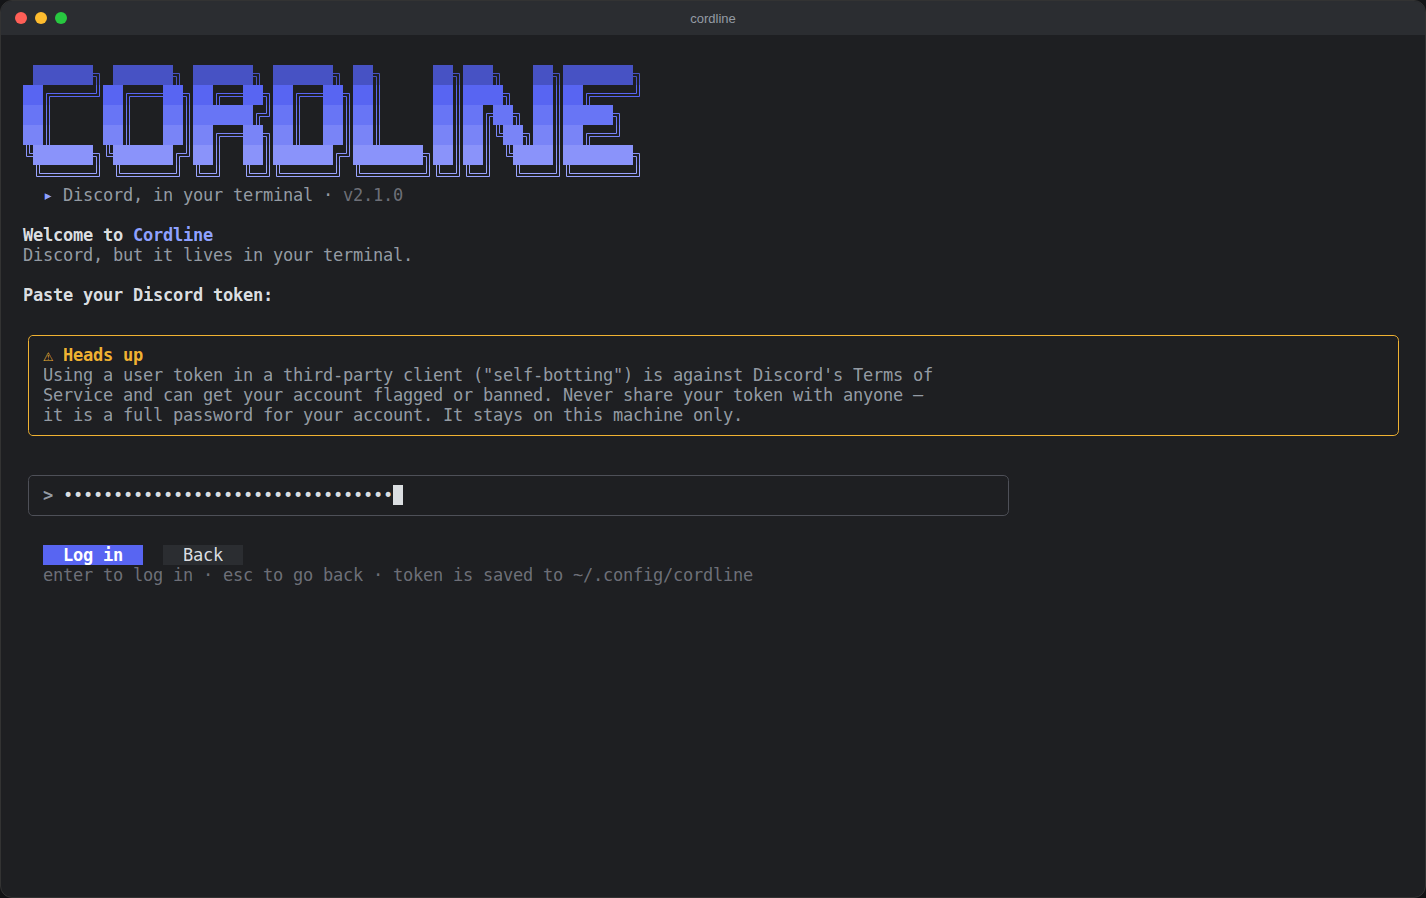
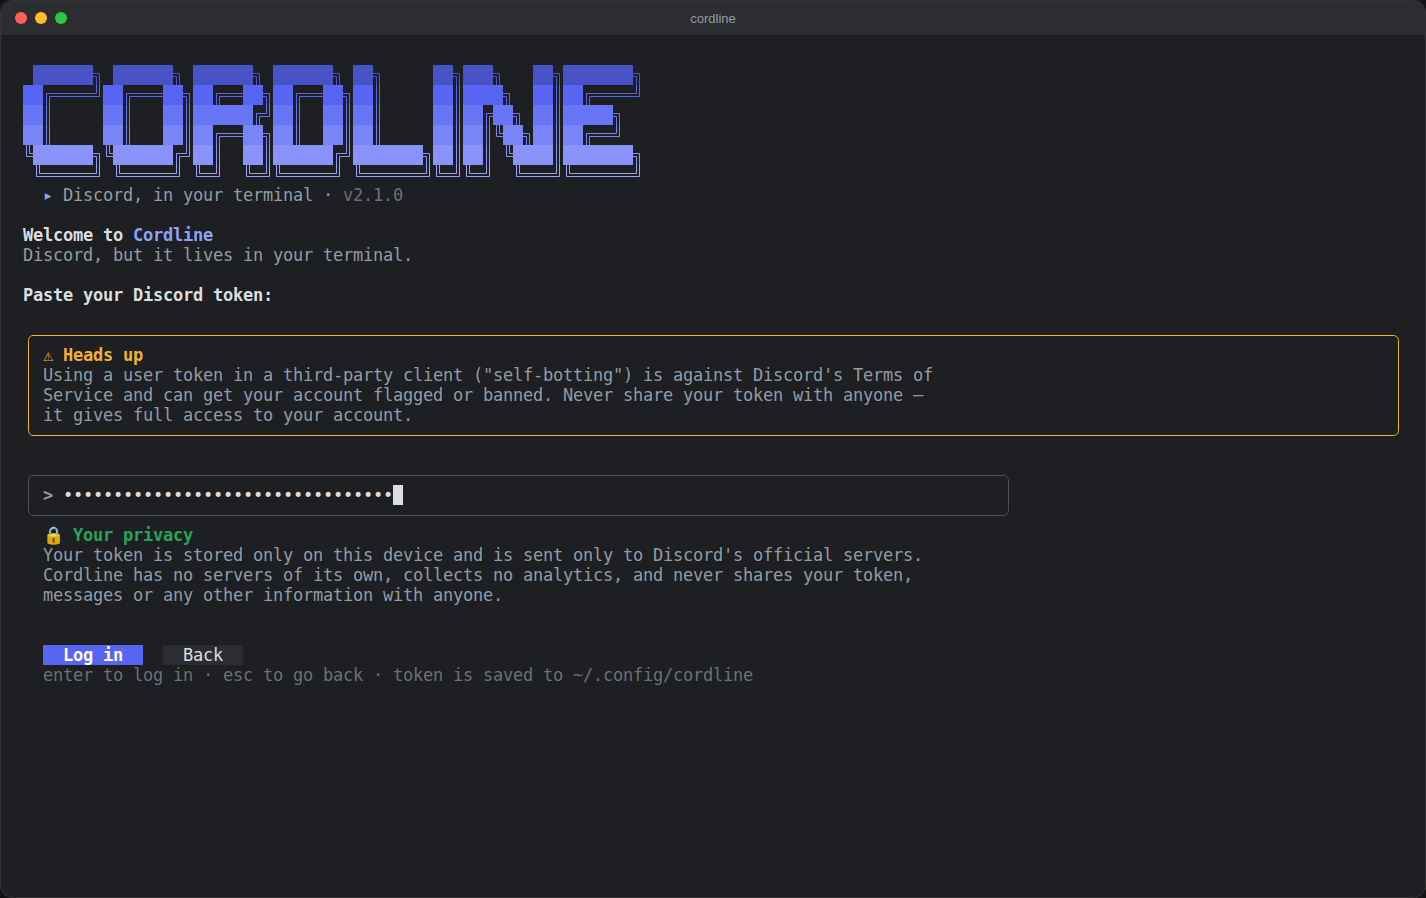
Add privacy statement (v2.1.1)
Adds PRIVACY.md, a Privacy & security section in the README, a privacy
notice on the login screen and in release notes.

diff --git a/src/ui/Login.js b/src/ui/Login.js
@@ -114,10 +114,18 @@ export function Login({onDone, initialError}) {
 								h(Text, {color: theme.yellow, bold: true}, '⚠ Heads up'),
 								h(Text, {color: theme.subtle}, 'Using a user token in a third-party client ("self-botting") is against Discord\'s Terms of'),
 								h(Text, {color: theme.subtle}, 'Service and can get your account flagged or banned. Never share your token with anyone —'),
-								h(Text, {color: theme.subtle}, 'it is a full password for your account. It stays on this machine only.'),
+								h(Text, {color: theme.subtle}, 'it gives full access to your account.'),
 							)
 						: h(Text, {color: theme.subtle}, 'discord.com/developers → your app → Bot → Reset Token. Enable the MESSAGE CONTENT intent.'),
 					h(Box, {marginTop: 1}, h(PromptInput, {value: token, cursor: token.length, placeholder: 'Token goes here…', columns: Math.min(columns, 100), masked: true})),
+					h(
+						Box,
+						{flexDirection: 'column', paddingX: 2, marginBottom: 1},
+						h(Text, {color: theme.green, bold: true}, '🔒 Your privacy'),
+						h(Text, {color: theme.subtle}, "Your token is stored only on this device and is sent only to Discord's official servers."),
+						h(Text, {color: theme.subtle}, 'Cordline has no servers of its own, collects no analytics, and never shares your token,'),
+						h(Text, {color: theme.subtle}, 'messages or any other information with anyone.'),
+					),
 					error ? h(Text, {color: theme.red}, `  ⎿  ${error}`) : null,
 					step === 'validating'
 						? h(Spinner, {label: 'Connecting to Discord…', startedAt})

diff --git a/src/discord.js b/src/discord.js
@@ -74,7 +74,7 @@ export class DiscordClient extends EventEmitter {
 					Authorization: this.token,
 					'Content-Type': 'application/json',
 					'User-Agent': this.isBot
-						? 'DiscordBot (https://github.com/EnSpecielPerson/Cordline, 2.1.0)'
+						? 'DiscordBot (https://github.com/EnSpecielPerson/Cordline, 2.1.1)'
 						: 'Mozilla/5.0 (X11; Linux x86_64) AppleWebKit/537.36 (KHTML, like Gecko) Chrome/130.0 Safari/537.36',
 				},
 				body: body === undefined ? undefined : JSON.stringify(body),

diff --git a/src/ui/components.js b/src/ui/components.js
@@ -5,7 +5,7 @@ import {Clickable} from './mouse.js';
 import {parseContent, displayName, formatTime, formatBytes, preview} from '../format.js';
 
 const h = React.createElement;
-export const VERSION = '2.1.0';
+export const VERSION = '2.1.1';
 
 // ---------- Logo + welcome banner ----------
 

diff --git a/PRIVACY.md b/PRIVACY.md
@@ -1,0 +1,51 @@
+# Privacy Statement
+
+_Last updated: October 1, 2026_
+
+Cordline is an open-source Discord client that runs entirely on your own device. This statement explains what information Cordline handles and how.
+
+## Summary
+
+Cordline does not collect, store remotely, sell or share your token, your messages or any other information. The only service it communicates with is Discord.
+
+## Information Cordline handles
+
+| Information | How it is used | Where it goes |
+|---|---|---|
+| Your Discord token (user or bot) | To sign in to your Discord account | Saved on your device; sent only to Discord's official servers |
+| Your servers, channels, direct messages and messages | Displayed in the app while you use it | Received from Discord and held in memory only; never written to disk or sent anywhere else |
+| Messages you send | Delivered to the channel you choose | Sent only to Discord |
+
+## Local storage
+
+- Your token is saved in `~/.config/cordline/config.json` (or under `$XDG_CONFIG_HOME/cordline` if that is set).
+- On macOS and Linux the file is created with permissions that allow only your user account to read it.
+- The token is stored in plain text, not encrypted. Anyone with access to your user account on this device could read it, so protect your device accordingly.
+- Messages and other account data are never saved to disk.
+
+## Network connections
+
+Cordline connects only to:
+
+- `https://discord.com/api`, Discord's official API, to load and send messages
+- `wss://gateway.discord.gg` (and the gateway URLs Discord provides during a session), Discord's official real-time messaging service
+
+Cordline does not contact any other servers. It contains no analytics, telemetry, crash reporting, advertising or tracking of any kind, and its developers have no servers that could receive your data.
+
+## Demo mode
+
+`cordline --demo` uses built-in sample data and makes no network connections.
+
+## Your control
+
+- Run `/logout` inside the app, or `cordline --logout`, to delete the saved token from your device.
+- Deleting the `cordline` configuration folder removes everything Cordline has stored.
+- Changing your Discord password invalidates your current token everywhere.
+
+## Your responsibility
+
+Your Discord token gives full access to your account. Never share it with anyone, including people who claim to be from Cordline or Discord. Using a user token with a third-party client is against Discord's Terms of Service and may lead to action against your account. Bot tokens are the officially supported way to use Cordline.
+
+## Verifying these statements
+
+Cordline is open source. All network communication is implemented in [`src/discord.js`](src/discord.js), and local storage is handled in [`src/config.js`](src/config.js).

diff --git a/README.md b/README.md
@@ -71,6 +71,18 @@ cordline --demo   # try it with fake data first
 cordline          # log in for real
 ```
 
+## Privacy & security
+
+Cordline does not share your token or any other information with anyone.
+
+- **Your token stays on your device.** It is saved locally in `~/.config/cordline/config.json`. On macOS and Linux the file can be read only by your user account. It is not encrypted, so treat that file like a password.
+- **Only Discord's official servers.** The app connects only to Discord's API (`discord.com`) and Discord's live-messaging gateway (`gateway.discord.gg`). Your token is sent only to those servers, and only to log you in.
+- **No third parties.** Cordline has no servers of its own and does not use analytics, tracking, crash reporting or advertising. Your messages, servers and account details never leave the connection between your device and Discord.
+- **You stay in control.** Run `/logout` or `cordline --logout` at any time to delete the saved token from your device. Changing your Discord password also resets the token everywhere.
+- **Open source.** The full source code is in this repository, so you can verify everything above yourself. All network code is in [`src/discord.js`](src/discord.js).
+
+See [PRIVACY.md](PRIVACY.md) for the full privacy statement.
+
 ## Logging in
 
 On first launch you choose a login method and paste a token. The token is saved to `~/.config/cordline/config.json` (file mode `600`). Run `/logout` or `cordline --logout` to remove it.
